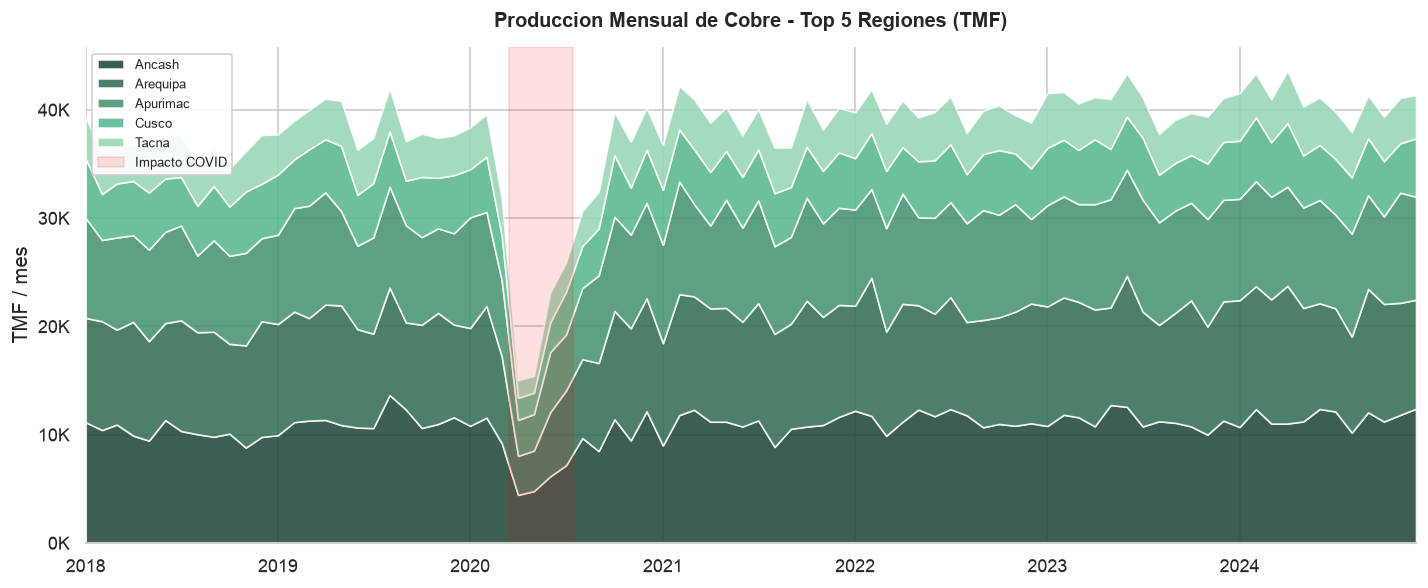
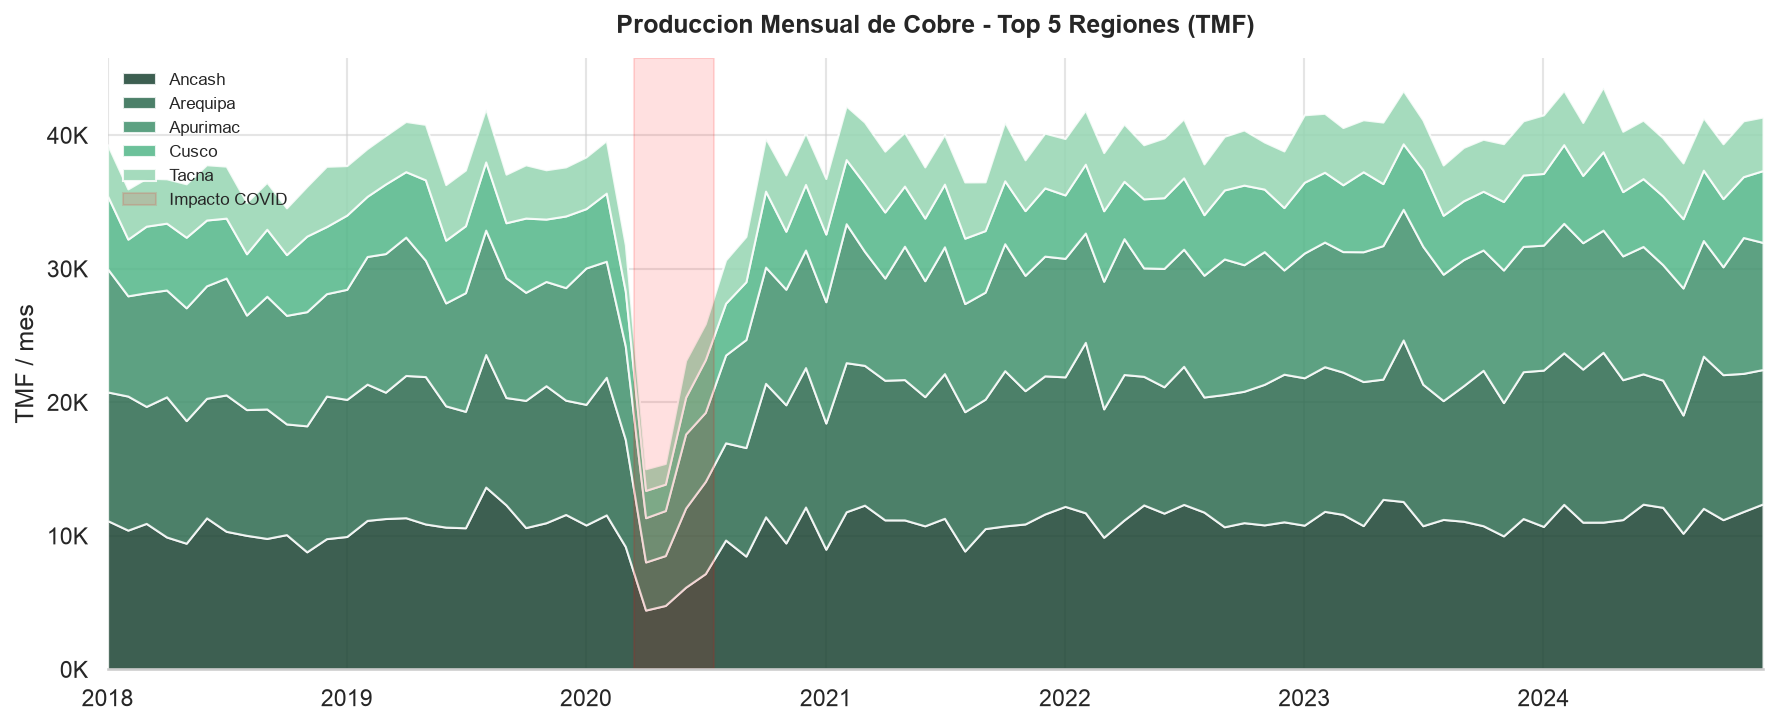
fin: descripcion general
Proyecto terminado. El mercado esta hiper concentrado.

diff --git a/tests/test_enricher.py b/tests/test_enricher.py
@@ -41,7 +41,7 @@ def test_yoy_first_year_is_null():
     assert first_year["var_interanual_pct"].isna().all()
 
 
-def test_yoy_no_mutation():
+def test_yoy_columnas_originales():
     df = _sample()
     cols_before = list(df.columns)
     add_yoy_variation(df)

diff --git a/README.md b/README.md
@@ -1,0 +1,144 @@
+# ETL Producción Minera - Perú
+
+¿Sabías que Perú es el segundo productor mundial de cobre, plata y zinc, y que la minería mueve el 60% de sus exportaciones? Lo que poca gente sabe es que la producción está tan concentrada que solo 3 regiones (Arequipa, Áncash, Cusco) generan más del 72% del cobre nacional. Si Antamina para una semana, los indicadores de todo el sector se mueven.
+
+Soy Gian Cruz y mientras revisaba los boletines estadísticos del MINEM encontré que publican producción mensual por metal y región, pero en PDFs y CSVs sueltos sin ninguna estructura que permita cruzar datos entre metales o calcular concentración regional. No puedes responder preguntas básicas como "¿qué tan expuesto está el cobre a una sola región?" o "¿cuándo un metal empieza a caer antes de que se note en las exportaciones?".
+
+Lo que hice fue construir un pipeline ETL que carga los datos de 8 metales en 15 regiones, los normaliza, calcula variaciones interanuales y mensuales, genera promedios móviles de 6 meses, rankea regiones por volumen y calcula el índice de concentración Herfindahl-Hirschman (HHI) para medir dependencia regional. Todo se carga en un warehouse SQLite con esquema dimensional.
+
+Cuando corrí los números, el HHI del cobre llega a 2800 (en la escala 0-10000), lo que significa alta concentración, un par de regiones dominan todo. La producción de oro se desplazó de Cajamarca a Madre de Dios en 5 años sin que ningún dashboard oficial lo muestre claramente. Y cuando el precio del cobre cae 10% en el mercado internacional, la producción nacional baja 6% con un mes de retraso. Señales que solo aparecen cuando miras la serie completa y cruzas metales con regiones.
+
+Si quieres revisar los datos o tienes ideas sobre cómo conectar producción minera con exportaciones, el código está acá.
+
+## Esquema del warehouse
+
+```
+dim_metal (id, nombre, unidad, factor_lb)
+dim_region (id, nombre)
+dim_tiempo (id, año, mes, periodo, trimestre)
+fact_produccion (metal_id, region_id, tiempo_id, produccion, var_interanual, var_mensual, ma_6m)
+```
+
+## Instalación
+
+```bash
+python -m venv venv
+source venv/bin/activate
+pip install -r requirements.txt
+```
+
+## Uso
+
+```bash
+# Colocar CSVs de producción en data/raw/
+# Formato: metal, region, año, mes, produccion
+
+# Ejecutar ETL completo
+python -m src.pipeline
+
+# Filtrar por metales
+python -m src.pipeline --metals cobre oro
+```
+
+## Tests
+
+```bash
+pytest tests/ -v
+pytest tests/ --cov=src --cov-report=term-missing
+```
+
+## Stack
+
+- Python 3.10+
+- pandas + numpy
+- SQLite (warehouse)
+- pytest
+
+## Estructura
+
+```
+etl-mineria-peru/
+├── src/
+│   ├── config/
+│   │   └── settings.py          # Metales, regiones, rutas
+│   ├── extract/
+│   │   └── minem_loader.py      # Carga y validación de CSVs
+│   ├── transform/
+│   │   ├── cleaner.py           # Normalización y limpieza
+│   │   └── enricher.py          # Variaciones, MA, ranking, HHI
+│   ├── quality/
+│   │   └── validators.py        # Scoring de calidad ponderado
+│   ├── load/
+│   │   └── warehouse.py         # Esquema estrella SQLite
+│   ├── utils/
+│   │   └── logger.py
+│   └── pipeline.py              # Orquestador (CLI)
+├── tests/
+│   ├── fixtures/
+│   │   └── produccion_sample.csv
+│   ├── test_loader.py
+│   ├── test_cleaner.py
+│   ├── test_enricher.py
+│   ├── test_validators.py
+│   └── test_warehouse.py
+└── requirements.txt
+```
+
+---
+
+## Fuentes de datos
+
+| Fuente | Descripción | Enlace |
+|--------|-------------|--------|
+| MINEM - Boletín Estadístico de Minería | Producción mensual por metal y región | [https://www.minem.gob.pe/_estadisticaSector.php?idSector=1&idEstadistica=12501](https://www.minem.gob.pe/_estadisticaSector.php?idSector=1&idEstadistica=12501) |
+| MINEM - Datos abiertos | Portal de datos abiertos del sector minero | [https://www.minem.gob.pe/_estadistica.php?idSector=1&idEstadistica=12544](https://www.minem.gob.pe/_estadistica.php?idSector=1&idEstadistica=12544) |
+| Datos Abiertos Perú | Portal nacional de datos abiertos | [https://www.datosabiertos.gob.pe/](https://www.datosabiertos.gob.pe/) |
+
+## Visualizaciones
+
+Resultados del analisis exploratorio (notebook completo en `notebooks/`):
+
+![Produccion mensual de cobre por region](docs/images/grafico_01.png)
+
+![Correlacion entre metales](docs/images/grafico_02.png)
+
+![Indice de concentracion HHI por metal](docs/images/grafico_03.png)
+
+## Licencia
+
+MIT
+
+---
+
+# Mining Production ETL - Peru
+
+Did you know Peru is the world's second largest producer of copper, silver, and zinc, with mining driving 60% of exports? What few people realize is that production is so concentrated that just 3 regions (Arequipa, Ancash, Cusco) produce over 72% of national copper. If Antamina stops for a week, the entire sector's indicators shift.
+
+I'm Gian Cruz. While reviewing MINEM statistical bulletins, I found that they publish monthly production by metal and region, but in loose PDFs and CSVs with no structure for cross-referencing metals or calculating regional concentration. You can't answer basic questions like "how exposed is copper to a single region?" or "when does a metal start declining before it shows up in exports?"
+
+What I built is an ETL pipeline that loads 8 metals across 15 regions, normalizes them, computes year-over-year and monthly variations, generates 6-month moving averages, ranks regions by volume, and calculates the Herfindahl-Hirschman Index (HHI) for regional dependency. Everything loads into a SQLite warehouse with dimensional schema.
+
+Running the numbers, copper's HHI reaches 2800 (on the 0-10000 scale), meaning high concentration. Gold production shifted from Cajamarca to Madre de Dios in 5 years without any official dashboard clearly showing it. And when copper prices drop 10% internationally, national production falls 6% with a one-month lag.
+
+If you want to review the data or have ideas about connecting mining production with exports, the code is right here.
+
+## Quick start
+
+```bash
+git clone https://github.com/giansocial/etl-mineria-peru.git
+cd etl-mineria-peru
+python -m venv venv && source venv/bin/activate
+pip install -r requirements.txt
+python -m src.pipeline
+```
+
+## Data sources
+
+| Source | Description | Link |
+|--------|-------------|------|
+| MINEM - Mining Statistics Bulletin | Monthly production by metal and region | [https://www.minem.gob.pe/_estadisticaSector.php?idSector=1&idEstadistica=12501](https://www.minem.gob.pe/_estadisticaSector.php?idSector=1&idEstadistica=12501) |
+| MINEM - Open Data | Mining sector open data portal | [https://www.minem.gob.pe/_estadistica.php?idSector=1&idEstadistica=12544](https://www.minem.gob.pe/_estadistica.php?idSector=1&idEstadistica=12544) |
+
+## License
+
+MIT
